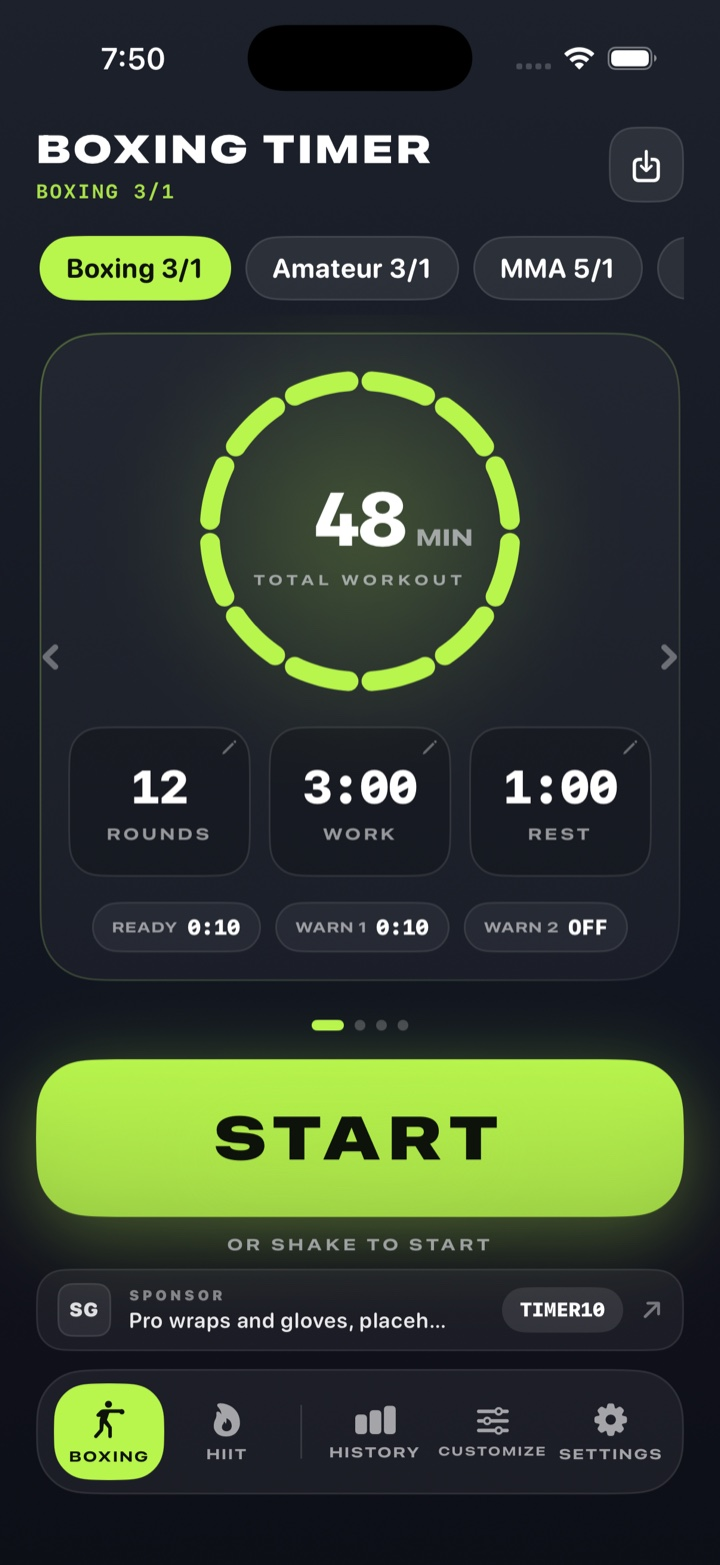
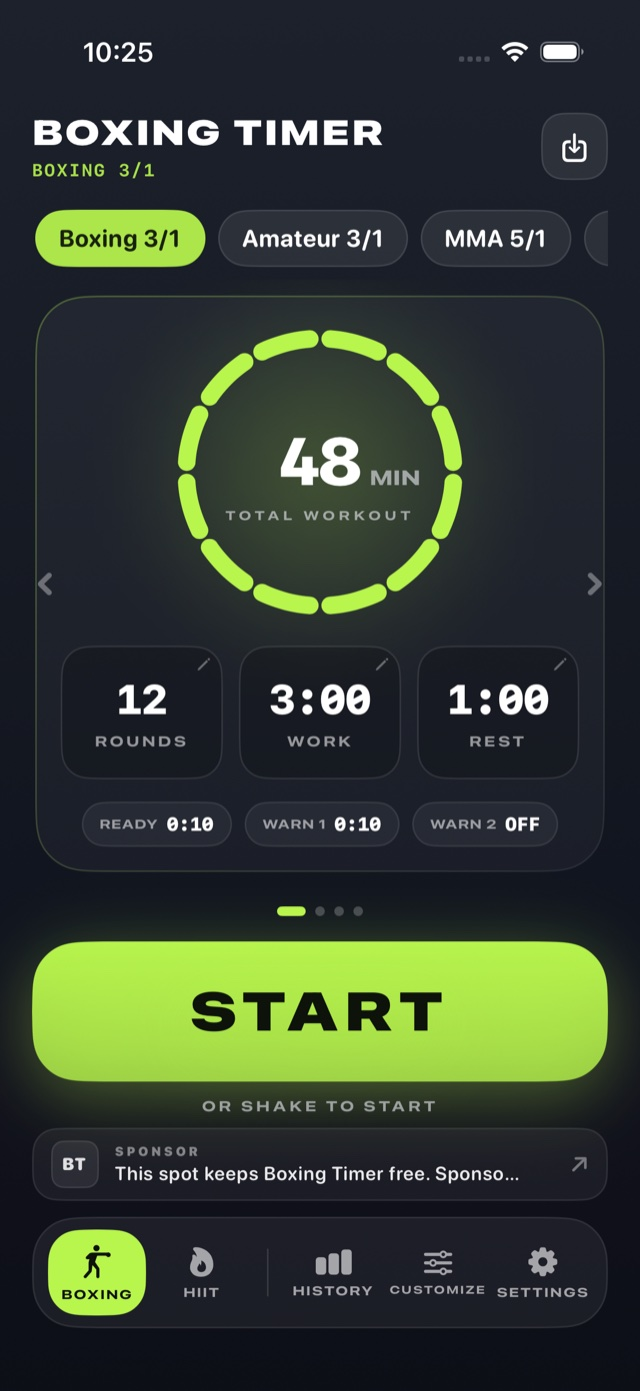
feat: full screenshot set, faq band, first-person story, cleaner tv copy

diff --git a/index.html b/index.html
@@ -35,16 +35,19 @@
     background: var(--panel); border: 1px solid var(--border); border-left: 3px solid var(--accent);
   }
   .privacy-band > p { color: #c9d0da; max-width: 62ch; margin-top: 8px; }
-  .privacy-facts { list-style: none; padding: 0; margin: 22px 0; display: grid; grid-template-columns: repeat(3, 1fr); gap: 18px; }
+  .privacy-facts { list-style: none; padding: 0; margin: 22px 0; display: grid; grid-template-columns: repeat(2, 1fr); gap: 20px 28px; }
   .privacy-facts li { color: var(--muted); font-size: 15px; }
   .privacy-facts strong { color: var(--text); display: block; margin-bottom: 4px; }
   .privacy-band a { font-size: 15px; }
   .shots { padding: 88px 0 0; }
-  .shots h2 { margin-bottom: 24px; }
-  .shots-row { display: grid; grid-template-columns: 2fr 1fr; gap: 18px; align-items: start; }
+  .shots h2 { margin-bottom: 8px; }
+  .shots-intro { color: var(--muted); margin-bottom: 28px; }
+  .shots-row { display: grid; grid-template-columns: repeat(4, 1fr); gap: 22px 18px; align-items: start; }
   .shots figure { margin: 0; }
+  .shots figure.wide { grid-column: 1 / -1; max-width: 760px; justify-self: center; }
   .shots img { width: 100%; height: auto; display: block; border-radius: 16px; border: 1px solid var(--border); background: #000; }
-  .shots figcaption { color: var(--muted); font-size: 14px; margin-top: 10px; }
+  .shots figcaption { color: var(--muted); font-size: 13.5px; margin-top: 10px; line-height: 1.45; }
+  @media (max-width: 900px) { .shots-row { grid-template-columns: repeat(2, 1fr); } }
   .cta-band {
     margin-top: 88px; padding: 56px 44px; border-radius: 22px; text-align: center;
     background: var(--panel); border: 1px solid var(--border);
@@ -121,7 +124,7 @@
       <div class="card">
         <div class="glyph"><svg width="20" height="20" viewBox="0 0 24 24" fill="none" stroke="#b8f54d" stroke-width="2" stroke-linecap="round"><rect x="2" y="5" width="20" height="13" rx="2"/><path d="M8 21h8"/></svg></div>
         <h3>Gym TV mode</h3>
-        <p>Connect AirPlay or HDMI and the timer takes over the big screen with a display built to be read from across the room.</p>
+        <p>AirPlay or HDMI puts a huge, high-contrast clock on the big screen. The TV shows the timer and nothing else. No sponsor card up there, no banners, ever.</p>
       </div>
       <div class="card">
         <div class="glyph"><svg width="20" height="20" viewBox="0 0 24 24" fill="none" stroke="#b8f54d" stroke-width="2" stroke-linecap="round"><path d="M20 6 9 17l-5-5"/></svg></div>
@@ -144,31 +147,56 @@
   <section class="story">
     <p class="kicker">Why this app exists</p>
     <h2>Made by a boxer, for boxers</h2>
-    <p>Boxing Timer was built by someone who got tired of timers that quit the moment the screen locked, silenced the bell behind a playlist, or buried round setup under menus mid-session. Every decision in this app answers one question: does it survive a real training session in a real gym?</p>
-    <p>And rounds aren't only for boxing. The same work-and-rest rhythm runs Muay Thai, MMA, kickboxing, HIIT circuits, and conditioning — so the app ships with a dedicated HIIT tab and fully custom intervals. If your training has a clock, this timer runs it.</p>
+    <p>I box. And for years my round timer was whichever free app annoyed me least. One quit the moment my screen locked. One buried the bell under my playlist. The worst one interrupted round eight with a fullscreen ad. So I built the timer I actually wanted: set your rounds, hit start, put the phone in your pocket, and trust the bell.</p>
+    <p>It isn't just for boxing, either. Rounds are rounds. Muay Thai, kickboxing, MMA, HIIT circuits, conditioning work, jump rope intervals. There's a dedicated HIIT tab, and every preset can be reworked into whatever your coach dreamed up. If your training has a clock, this runs it.</p>
   </section>
 
   <section class="privacy-band">
-    <h2>No data collected. None.</h2>
-    <p>Most free apps pay for themselves with your data. This one doesn't — it's kept free by a single sponsor card instead, so there is nothing about you to collect.</p>
+    <h2>The stuff people ask us about first</h2>
     <ul class="privacy-facts">
-      <li><strong>No account, ever.</strong> Nothing to sign up for, nothing to leak.</li>
-      <li><strong>No analytics, no ad tracking.</strong> Your presets and history live on your phone and nowhere else.</li>
-      <li><strong>One anonymous request.</strong> The app's only network call fetches the public sponsor card — identical for every user, nothing sent about you.</li>
+      <li><strong>Do I need an account?</strong> No. There is nothing to sign up for. Download it, pick your rounds, train.</li>
+      <li><strong>What data do you collect?</strong> None. No analytics, no ad tracking, no identifiers. Your presets and history stay on your phone.</li>
+      <li><strong>Will the gym TV show ads?</strong> No. The TV screen is the clock and only the clock. The single sponsor card lives on the phone's home screen and nowhere near your workout.</li>
+      <li><strong>So how is it free?</strong> One sponsor backs the app with a small card on the home screen. That card is the entire business model, which is why nothing about you needs collecting.</li>
     </ul>
-    <a href="/privacy/">Read the full privacy policy — it's two minutes long because there's nothing to disclose</a>
+    <a href="/privacy/">The full privacy policy takes two minutes to read, because there is nothing to disclose</a>
   </section>
 
   <section class="shots">
-    <h2>In the gym</h2>
+    <h2>Every screen, nothing hidden</h2>
+    <p class="shots-intro">This is the whole app. What you see here is what you get on day one, free.</p>
     <div class="shots-row">
       <figure>
-        <img src="/assets/screenshots/tv.jpg" alt="Boxing Timer gym TV scene showing a green work round with a large countdown">
-        <figcaption>The gym TV scene — AirPlay or HDMI, readable from the far bag</figcaption>
+        <img src="/assets/screenshots/home.jpg" alt="Home screen with boxing presets, a segmented ring, and a large start button">
+        <figcaption>Pick rounds, work, rest. Hit start.</figcaption>
       </figure>
       <figure>
-        <img src="/assets/screenshots/home.jpg" alt="Boxing Timer home screen with preset cards and start button">
-        <figcaption>Rounds, work, and rest set in seconds</figcaption>
+        <img src="/assets/screenshots/session.jpg" alt="A running work round with the countdown and round number">
+        <figcaption>Mid-round. Readable at arm's length or across the gym.</figcaption>
+      </figure>
+      <figure>
+        <img src="/assets/screenshots/history.jpg" alt="History screen with weekly stats and logged workouts">
+        <figcaption>Your streak and every session, kept on your phone.</figcaption>
+      </figure>
+      <figure>
+        <img src="/assets/screenshots/hiit.jpg" alt="HIIT tab with Tabata and interval presets">
+        <figcaption>Not just boxing: Tabata, EMOM, and your own intervals.</figcaption>
+      </figure>
+      <figure>
+        <img src="/assets/screenshots/customize.jpg" alt="Customize screen for editing presets">
+        <figcaption>Every preset editable down to the second.</figcaption>
+      </figure>
+      <figure>
+        <img src="/assets/screenshots/settings.jpg" alt="Settings screen with sound choices">
+        <figcaption>Pick a sound and hear it right away.</figcaption>
+      </figure>
+      <figure>
+        <img src="/assets/screenshots/home-blue.jpg" alt="The home screen re-themed in the blue accent color">
+        <figcaption>Green, red, blue, or orange. Your corner, your colors.</figcaption>
+      </figure>
+      <figure class="wide">
+        <img src="/assets/screenshots/tv.jpg" alt="The gym TV scene: a large green work round countdown">
+        <figcaption>On the gym TV: the clock and only the clock. The sponsor card never leaves the phone.</figcaption>
       </figure>
     </div>
   </section>